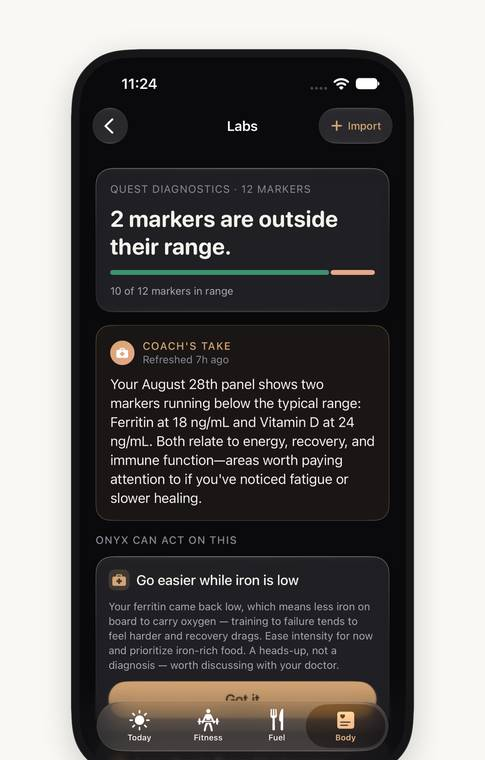
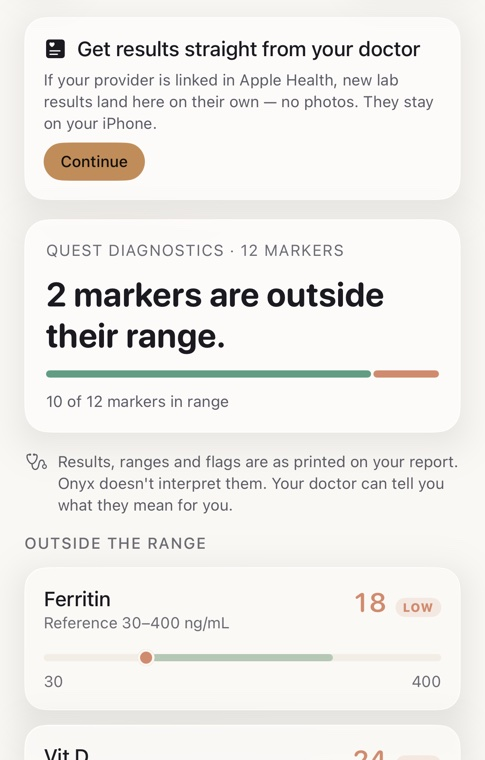
Labs: display only, no interpretation (App Review 1.4.1)
Lab results are shown as printed, never read into advice. Removes the
Coach demo that acted on ferritin and LDL, the 'explained / acted on'
points, bloodwork in food scores, and the plain-English claims. New Labs
screenshot with the 'as printed, ask your doctor' note.

diff --git a/index.html b/index.html
@@ -6,11 +6,11 @@
   <meta name="color-scheme" content="dark" />
   <meta name="theme-color" content="#000000" />
   <title>Onyx: Fitness &amp; AI Coach · Fitness that knows you</title>
-  <meta name="description" content="Onyx reads your Apple Watch, your bloodwork, your training, and your food. Then it tells you the one thing to do today, and why. Free on the App Store." />
+  <meta name="description" content="Onyx reads your Apple Watch, your sleep, your training, and your food. Then it tells you the one thing to do today, and why. Free on the App Store." />
   <meta property="og:type" content="website" />
   <meta property="og:site_name" content="Onyx" />
   <meta property="og:title" content="Onyx: Fitness that knows you" />
-  <meta property="og:description" content="Your watch, your bloodwork, your training and your food, turned into one clear answer every morning. Free on the App Store." />
+  <meta property="og:description" content="Your watch, your sleep, your training and your food, turned into one clear answer every morning. Free on the App Store." />
   <meta property="og:url" content="https://onyxcoach.app/" />
   <meta property="og:image" content="https://onyxcoach.app/assets/og.png" />
   <meta property="og:image:width" content="1200" />
@@ -47,7 +47,7 @@
           <div><div class="t1">Onyx: Fitness &amp; AI Coach</div><div class="t2">For iPhone and Apple Watch</div></div>
         </div>
         <h1>Fitness that<br /><span class="glow">knows you.</span></h1>
-        <p class="sub">Onyx reads your watch, your bloodwork, your training, and your food. Then it tells you the one thing to do today. <b>And why.</b></p>
+        <p class="sub">Onyx reads your watch, your sleep, your training, and your food. Then it tells you the one thing to do today. <b>And why.</b></p>
         <div class="hero-ctas">
           <a class="badge" href="https://apps.apple.com/us/app/onyx-fitness-ai-coach/id6758569382?uo=4" target="_blank" rel="noopener"><img src="assets/app-store-badge.svg" alt="Download on the App Store" /></a>
           <a class="link-more" href="#features">See how it works</a>
@@ -156,7 +156,7 @@
               <button type="button" data-q="0">“Should I train today?”</button>
               <button type="button" data-q="1">“Why has my HRV been low?”</button>
               <button type="button" data-q="2">“Build me 45 minutes with dumbbells.”</button>
-              <button type="button" data-q="3">“Walk me through my labs.”</button>
+              <button type="button" data-q="3">“What should I eat before my long run?”</button>
             </div>
             <span class="try">Tap a question. Answers use an example person's data.</span>
           </div>
@@ -174,10 +174,10 @@
     <section>
       <div class="wrap">
         <p class="label rv">Bloodwork</p>
-        <h2 class="headline rv">Your labs, in plain English.</h2>
-        <p class="subhead rv">Take a photo of your lab report, or import the PDF. Onyx reads every marker, charts it against its range, and keeps track across every draw. Your bloodwork finally becomes something you can use. Not something you file away.</p>
+        <h2 class="headline rv">Your lab results, in one place.</h2>
+        <p class="subhead rv">Bring in your results from Apple Health Records, a photo of your report, or the PDF. Onyx shows every result with the range printed on your report and keeps track across every draw. It shows your results; it doesn't interpret them. Your doctor can tell you what they mean for you.</p>
         <div class="split rev">
-          <img class="phone-shot rv" src="assets/labs.jpg" alt="Onyx Labs: two markers outside their range, explained in plain language" loading="lazy" />
+          <img class="phone-shot rv" src="assets/labs.jpg" alt="Onyx Labs: results and ranges as printed on the report, with a note to ask your doctor what they mean" loading="lazy" />
           <div class="rv">
             <div class="widget glass" id="labs">
               <div class="cap" style="margin-bottom:6px">Latest draw</div>
@@ -193,10 +193,10 @@
           </div>
         </div>
         <ul class="points">
-          <li class="rv"><b>Explained simply</b><span>What each marker means, and why it matters to your energy, recovery and training.</span></li>
-          <li class="rv"><b>Acted on, gently</b><span>Iron running low? Onyx eases your training and points you to iron-rich food. LDL high? More fibre, worked into your week.</span></li>
-          <li class="rv"><b>Tracked over time</b><span>Watch a marker move from draw to draw, and see your habits working.</span></li>
-          <li class="rv"><b>First report free</b><span>Import your most recent labs and see what they've been trying to tell you.</span></li>
+          <li class="rv"><b>As printed</b><span>Every value, unit, range and flag exactly as your lab reported it. You check them before they're saved.</span></li>
+          <li class="rv"><b>Ready for your doctor</b><span>A one-page summary of your results to bring to your next appointment.</span></li>
+          <li class="rv"><b>Tracked over time</b><span>See each result from draw to draw, side by side.</span></li>
+          <li class="rv"><b>First report free</b><span>Import your most recent report and see every result in one place.</span></li>
         </ul>
       </div>
     </section>
@@ -206,7 +206,7 @@
       <div class="wrap">
         <p class="label rv">Fuel</p>
         <h2 class="headline rv">Food that fits your body.</h2>
-        <p class="subhead rv">Scan a barcode, snap a plate, or just say what you ate. Every food gets two scores. One for the product. And one for you, today, based on your bloodwork, your readiness, and your training.</p>
+        <p class="subhead rv">Scan a barcode, snap a plate, or just say what you ate. Every food gets two scores. One for the product. And one for you, today, based on your readiness, your training, and what you've eaten.</p>
         <div class="split">
           <div class="rv">
             <div class="widget glass" id="fuel">
@@ -391,7 +391,7 @@
       <div class="wrap-narrow">
         <p class="label rv">For real life</p>
         <h2 class="headline rv">Bodies change. Your plan should, too.</h2>
-        <p class="subhead rv" style="max-width:60ch">Maybe you're on a GLP-1, and your appetite isn't what it was. Maybe you're coming back from a hard month, or a hard year. Onyx doesn't hold you to a plan written for who you were. It reads who you are this week: protein that protects your muscle, training that bends instead of breaking, labs that show what's really changing. <b style="color:var(--ink)">No guilt. Just guidance.</b></p>
+        <p class="subhead rv" style="max-width:60ch">Maybe you're on a GLP-1, and your appetite isn't what it was. Maybe you're coming back from a hard month, or a hard year. Onyx doesn't hold you to a plan written for who you were. It reads who you are this week: protein that protects your muscle, training that bends instead of breaking, and sleep and recovery that show what's really changing. <b style="color:var(--ink)">No guilt. Just guidance.</b></p>
       </div>
     </section>
 
@@ -441,9 +441,9 @@
         <div class="faq-list rv">
           <details><summary>What do I need to use Onyx?</summary><p class="a">An iPhone running iOS 26. An Apple Watch brings the full picture: overnight HRV, resting heart rate, sleep, and wrist temperature feed your readiness score and the early warning. And it can run your workouts all on its own. Onyx has a proper iPad layout, too.</p></details>
           <details><summary>What's actually free?</summary><p class="a">A lot: readiness and the illness early-warning in full, session grades, cardio load, biological age, sleep need and debt, the adaptive program, Recovery Mode, both food scores, and your first lab report. Pro ($29.99 a year, free week where available) adds Coach unlimited, unlimited photo and description meal logging, the meal planner, menu reading, and unlimited lab reports.</p></details>
-          <details><summary>How does the bloodwork part work?</summary><p class="a">Photograph a report or import the PDF. Onyx charts every marker against its range, tracks it across draws, explains it in plain language, and turns anything flagged into a gentle suggestion, always as a card you approve. It's a heads-up, not a diagnosis.</p></details>
+          <details><summary>How does the bloodwork part work?</summary><p class="a">Connect Apple Health Records, photograph a report, or import the PDF. Onyx shows every result with the range and flag printed on your report and tracks it across draws, so you can see them side by side and bring a summary to your doctor. Onyx doesn't interpret results or give advice based on them: your doctor can tell you what they mean for you.</p></details>
           <details><summary>Where does my health data go?</summary><p class="a">Your scores, trends and plans are computed on your iPhone, and your health data isn't stored in iCloud. When Coach or a photo needs a larger AI model, Onyx asks first, then sends only what's needed, without your name. Your health data is never sold, never used for ads, and never used to train AI. The <a href="privacy.html">privacy policy</a> has every detail.</p></details>
-          <details><summary>I'm on a GLP-1. Is Onyx for me?</summary><p class="a">Very much so. Your appetite, recovery, and labs are all changing at once, and Onyx reads all three: protein targets that protect your muscle, training that adapts day by day, and bloodwork tracked over time so you can see what's really happening.</p></details>
+          <details><summary>I'm on a GLP-1. Is Onyx for me?</summary><p class="a">Very much so. Your appetite, recovery and training are all changing at once, and Onyx keeps up with all three: protein targets that protect your muscle, training that adapts day by day, and sleep and recovery tracked so you can see what's really happening.</p></details>
           <details><summary>Is Onyx a medical device?</summary><p class="a">No. Onyx is not a medical device and does not diagnose. It offers a heads-up and a plan for the day. Please talk to your doctor about your results.</p></details>
         </div>
       </div>

diff --git a/assets/site.js b/assets/site.js
@@ -196,8 +196,8 @@
        "On the 3 nights you logged drinks, your HRV averaged 41 ms against your usual 51. Two 3pm espressos didn't help. Try caffeine before noon this week and I'll watch what happens."],
       ["Build me 45 minutes with dumbbells.",
        "Upper Body, 45 minutes: incline press 4×8, one-arm row 4×10, seated press 3×10, lateral raise 3×12, curls 3×10. Weights start from last time.", true],
-      ["Walk me through my labs.",
-       "Two things stand out. Ferritin is low at 18, so I've eased your intensity and added iron-rich meals. LDL is 142, but down from 158 over three draws: the extra fibre is working. Worth a chat with your doctor at your next visit."]
+      ["What should I eat before my long run?",
+       "Make tonight's dinner carb-forward: rice or pasta with a lean protein, easy on fat and fibre. Tomorrow, a banana and toast about an hour before you head out. You've got 750 kcal left today, so there's room."]
     ];
     var busy = false, chips = $$("#qchips button");
     function bubble(cls, html) {
